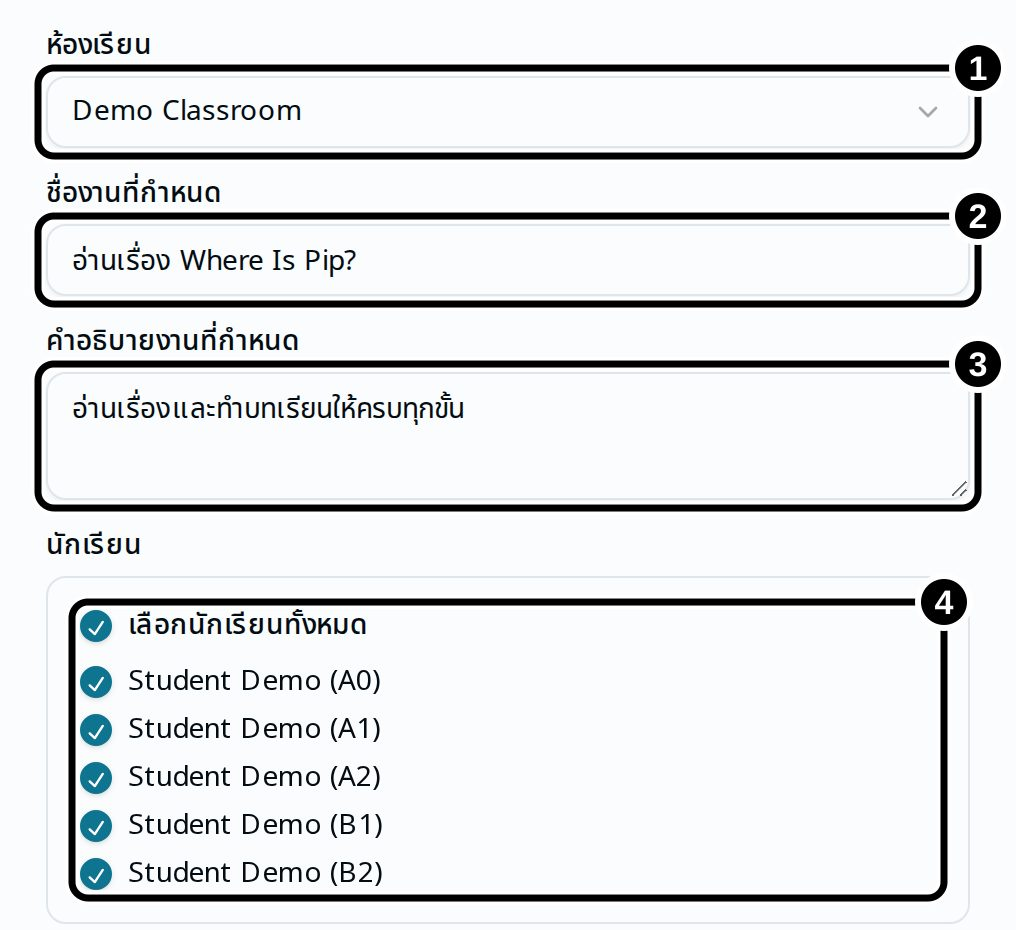
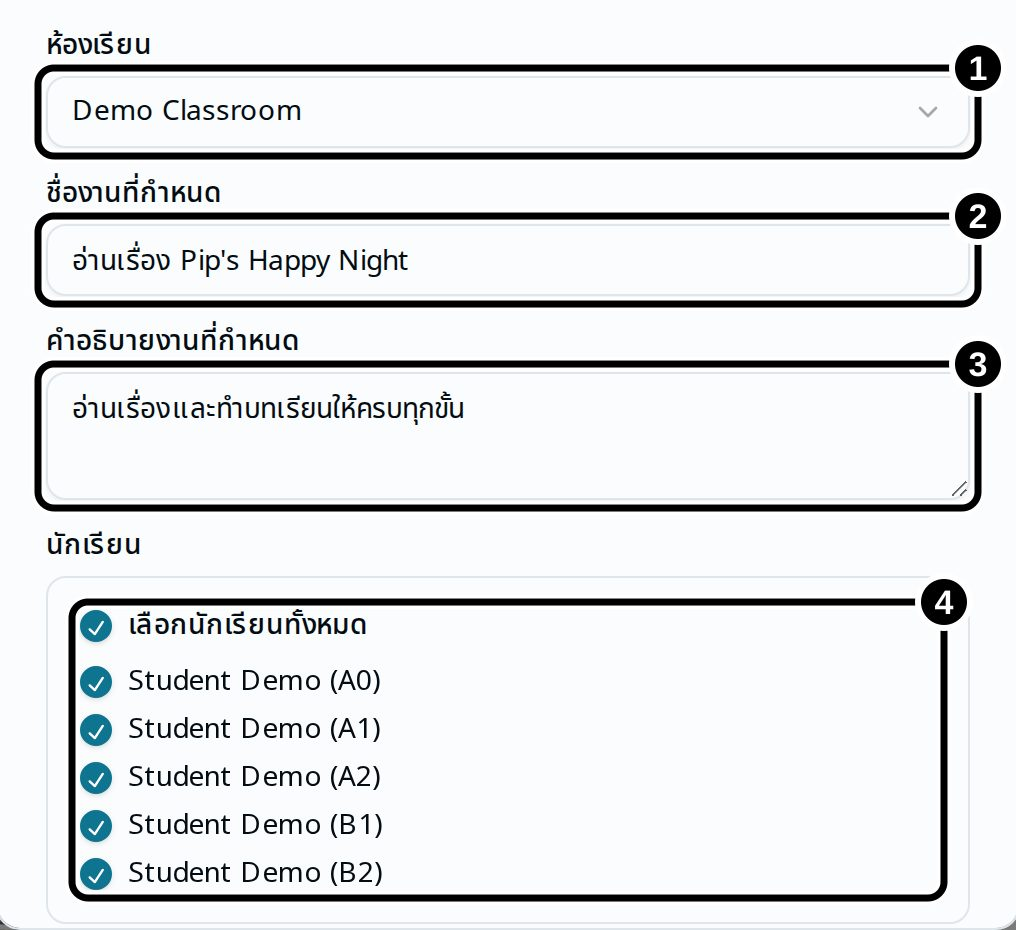
feat(teacher-manual): the homework screens show Origins 3.1
The Monorepo session took 10b and 10c again with Origins 3.1 lesson 2 "Pip's
Happy Night" (2026-10-20 night; same as the new build: no calendar in 10c, the
student bar is hidden on desktop). In 10c all four boxes moved down 20 px (the
story description has one more line), so the last box touched the fixed crop
edge; the 10c crop moves down 20 px (y 235 -> 255) and keeps the old framing.
Both screens looked at. The manual now has no Origins 3.2 picture. Final and
DRAFT PDFs rebuilt: 179 pages, all checks pass; tests 61/61, tsc 0.

Changed region(s): [[0.0, 0.9667, 1.0, 1.0], [0.1831, 0.2495, 0.3967, 0.3118]]

diff --git a/dashboard/scripts/teacher-manual/mark-captures.ts b/dashboard/scripts/teacher-manual/mark-captures.ts
@@ -48,7 +48,7 @@ export const SCREENS: ScreenSpec[] = [
     { id: 'progress-grid', capture: '09f-class-progress-grid-desktop-th', marks: [], crop: { x: 280, y: 70, w: 980, h: 560 } },
     { id: 'mark-taught', capture: '09g-mark-lesson-taught-desktop-th', marks: ['คู่มือ', 'ทำเครื่องหมายว่าสอนแล้ว'], crop: { x: 290, y: 60, w: 970, h: 330 } },
     { id: 'article-assign', capture: '10b-article-assign-button-desktop-th', marks: ['งานที่กำหนด'], crop: { x: 290, y: 80, w: 970, h: 300 } },
-    { id: 'assign-form', capture: '10c-assign-form-filled-top-desktop-th', marks: ['ห้องเรียน', 'ชื่องานที่กำหนด', 'คำอธิบายงานที่กำหนด', 'เลือกนักเรียนทั้งหมด'], crop: { x: 386, y: 235, w: 508, h: 465 } },
+    { id: 'assign-form', capture: '10c-assign-form-filled-top-desktop-th', marks: ['ห้องเรียน', 'ชื่องานที่กำหนด', 'คำอธิบายงานที่กำหนด', 'เลือกนักเรียนทั้งหมด'], crop: { x: 386, y: 255, w: 508, h: 465 } },
     { id: 'class-sheet-confirm', capture: '06b-class-sheet-confirm-desktop-th', marks: ['ตั้งรหัสผ่านใหม่'], crop: { x: 280, y: 140, w: 960, h: 360 } },
     { id: 'qr-cards', capture: '07a-qr-cards-page-desktop-th', marks: ['ทำบัตรให้นักเรียนที่ยังไม่มีบัตร 4 คน', 'พิมพ์'], crop: { x: 268, y: 80, w: 992, h: 440 } },
 ];
